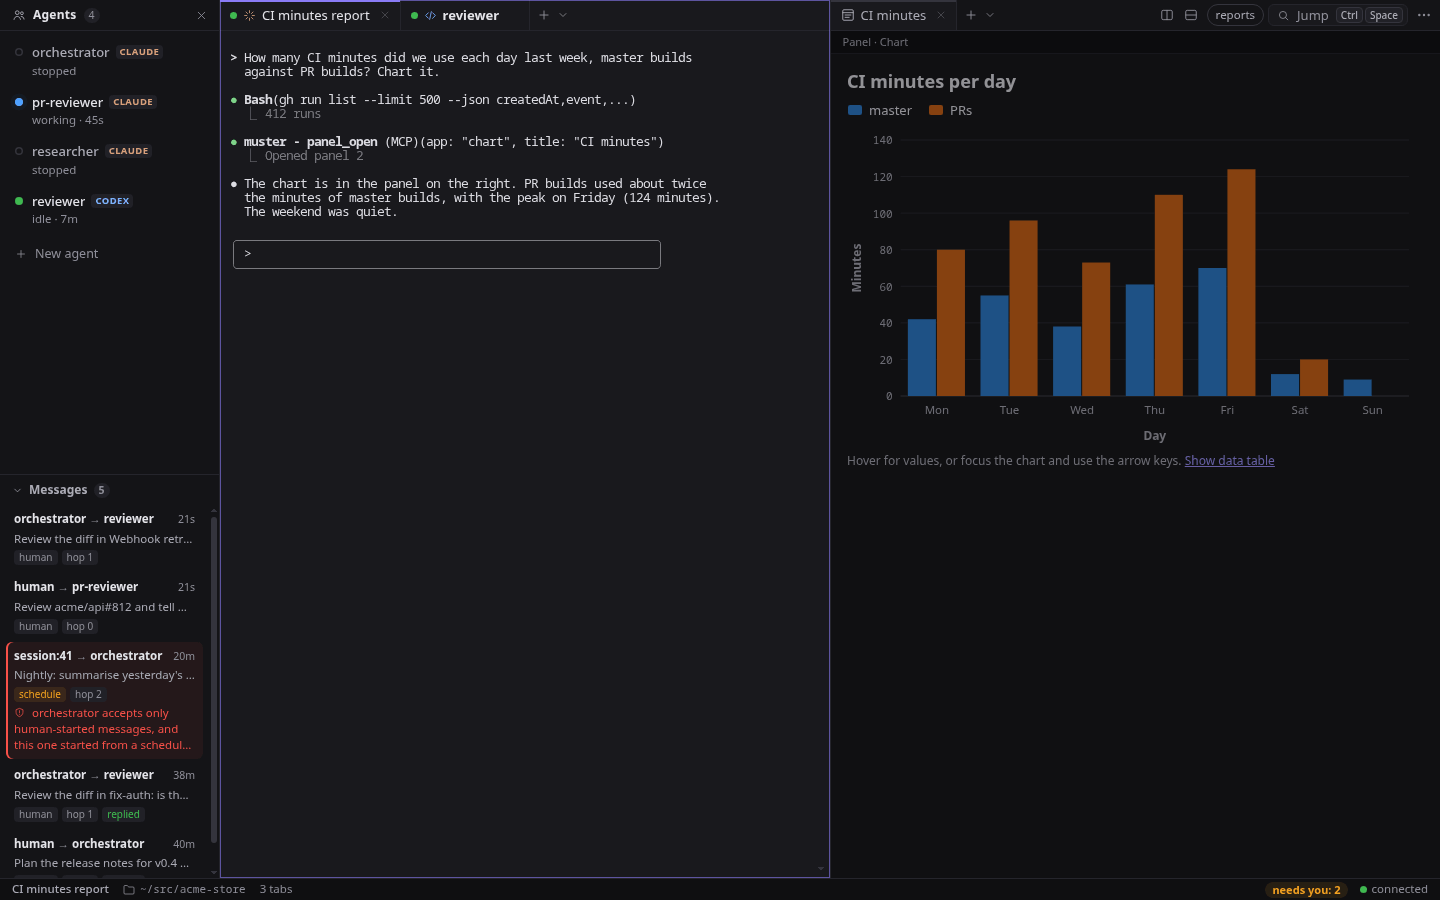
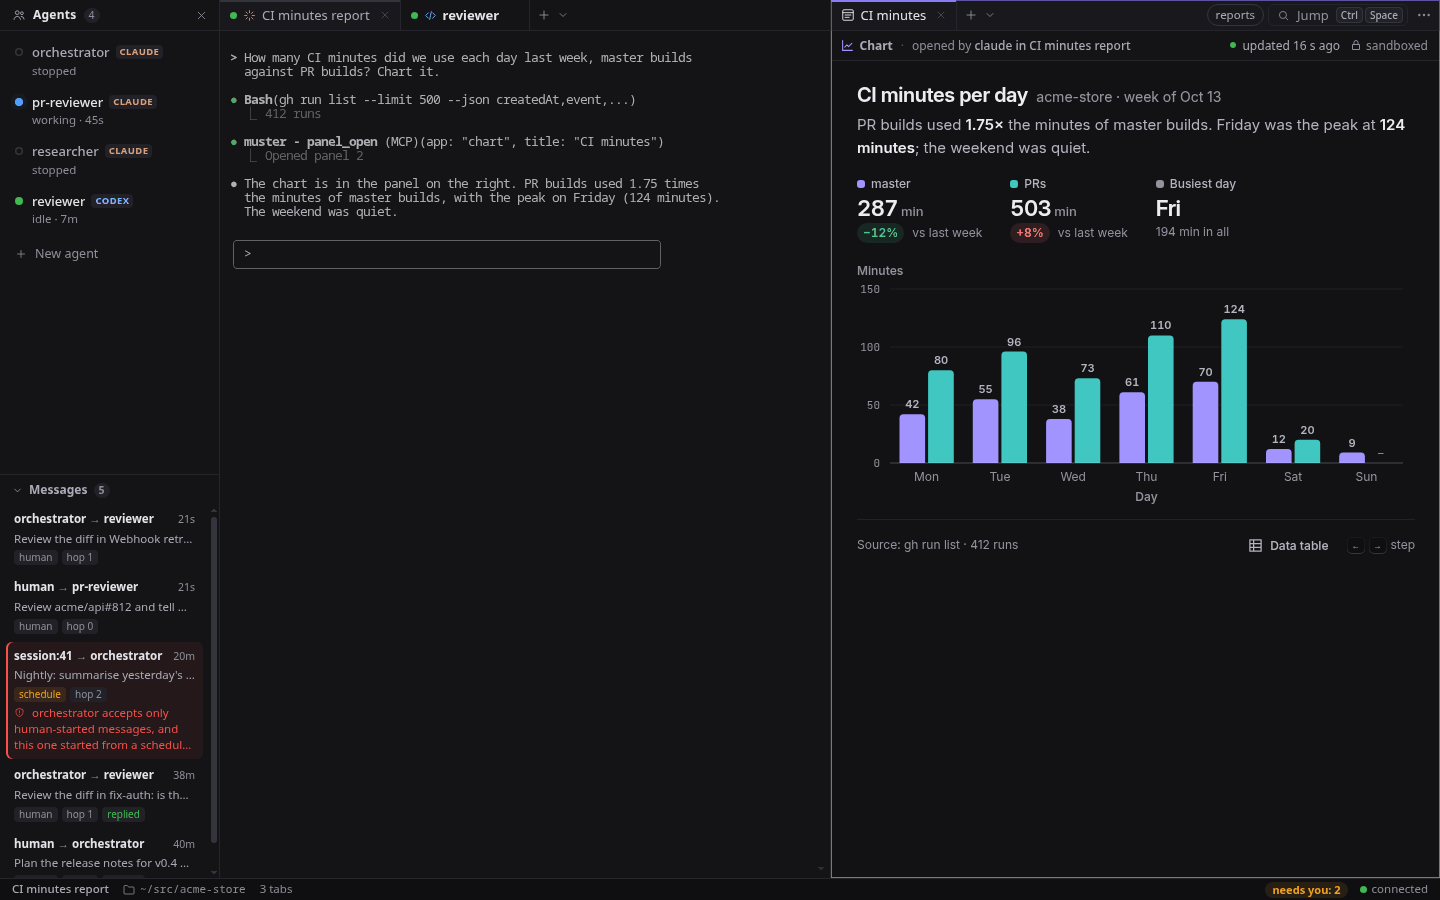
The README now shows the new panel look and what agents can build with it. The five screenshots were retaken so every panel in them has the Briefing design, and a new "Panels agents can build" section shows a cost dashboard from plain JSON, an error-rate chart that makes its point, and two pages age
Screenshots (docs/screenshots/): hero, jump, pr-decision, agents-chart and phone retaken; board-costs, chart-errors, kit-deploys and kit-test-run added. Taken in headless Chromium, dark mode, against a scratch copy of the current web/dev/mock.ts (scene helpers only, kept out of the repo) with a fake HOME and dummy projects (acme-store, billing-api, docs-site). The showcase panels are web/dev/panel_examples/ (cost-breakdown.json, deploy-board.html, test-run.html) and the panel_samples.ts Briefing samples (table with bars and badges in the hero, chart with takeaway and headline numbers in agents-chart, multi-series error-rate chart with highlight and annotation). Showcase shots are cropped to the panel's group. All quantised to 256 colours, 465 KB in all.

README: the hero, jump, pr-decision and agents-chart alt text describe the new pictures; the panels bullet mentions dashboards and agents' own pages and links to the new section, which includes a trimmed board JSON example.

diff --git a/README.md b/README.md
@@ -4,7 +4,7 @@ Muster is a Linux desktop app for running several coding agents at once. Claude 
 plain shells run side by side in real terminals, and Muster shows you which of them is waiting
 for you.
 
-![A Muster window split into three groups: a Claude agent fixing a checkout bug, a Codex agent asking to run tests with an Approve button above its terminal, a shell showing the test run, and a table of flaky tests that an agent opened in a panel](docs/screenshots/hero.png)
+![A Muster window split into three groups: a Claude agent fixing a checkout bug, a Codex agent asking to run tests with an Approve button above its terminal, a shell showing the test run, and a panel an agent opened with a table of flaky tests, its finding in one line above the table, failure counts drawn as bars and a status badge on each test](docs/screenshots/hero.png)
 
 It is for people who hand work to agents and keep three or four of them busy: one fixing a bug,
 one writing a guide, one reviewing a pull request. With ordinary terminal tabs you keep cycling
@@ -26,25 +26,26 @@ key press away, and the terminals keep running when the window closes.
 - **Jump to anything.** Ctrl+Space searches every tab, panel, named agent and recent folder in
   every window. Agents that need you come first.
 
-  ![The Jump list open over the window: the Codex agent waiting for approval and the Claude agent asking which install method to document are listed first, followed by working and idle tabs, panels, named agents and folders](docs/screenshots/jump.png)
+  ![The Jump list open over the window: the Codex agent waiting for approval and the Claude agent asking which install method to document are listed first, followed by the working and idle tabs and the panels from every window](docs/screenshots/jump.png)
 
 - **Terminals that outlive the window.** A separate terminal host owns the processes. Close the
   window, reload the UI or restart the backend, and every agent keeps running; reopen and the
   scrollback replays.
-- **Panels beside the agent.** Agents can open Markdown, images, charts, tables and pull request
-  decisions next to their terminal, and you answer with a click. In a PR decision panel you see
+- **Panels beside the agent.** Agents can open Markdown, images, charts, tables, dashboards,
+  pull request decisions and pages of their own next to their terminal, and you answer with a
+  click ([examples below](#panels-agents-can-build)). In a PR decision panel you see
   the agent's verdict, how to undo the change, the risk, the checks and the questions it has for
   you, then merge, request changes or ask. The agent merges only after you press Merge and
   confirm.
   `muster skills install` teaches Claude Code and Codex how to use panels.
 
-  ![An agent's terminal on the left; on the right a PR decision panel for "Rate-limit failed logins per IP" with the verdict "Safe to merge", the risk, passing checks, a question for the reviewer, and Merge, Request changes, Ask, Skip and Hold buttons](docs/screenshots/pr-decision.png)
+  ![An agent's terminal on the left; on the right a PR decision panel for "Rate-limit failed logins per IP" with the verdict "Safe to merge: it slows down people guessing passwords, and the tests pass", a note that an approving review is still required, cards for the risk, the passing checks and the reviews, a plain summary of what changed, and Merge, Request changes, Ask, Skip and Hold buttons](docs/screenshots/pr-decision.png)
 
 - **Named agents that remember.** Give an agent a name, a persona and a folder of memory files,
   and it resumes its conversation each time you start it. The agents panel (Alt+G) starts them,
   edits their persona and memory, and shows the messages agents send each other.
 
-  ![The agents panel on the left listing four named agents with their states and the messages between them, a Claude agent's terminal in the middle, and a bar chart of CI minutes per day in a panel on the right](docs/screenshots/agents-chart.png)
+  ![The agents panel on the left listing four named agents with their states and the messages between them, a Claude agent's terminal in the middle, and a panel on the right with a bar chart of CI minutes per day, master builds against PR builds, under the agent's one-line finding and three headline numbers](docs/screenshots/agents-chart.png)
 
 - **Agents that drive other agents.** Every agent gets Muster's MCP tools: it can list sessions,
   start a helper, send it a prompt, wait for it to finish and read its screen. The `muster` CLI
@@ -53,6 +54,54 @@ key press away, and the terminals keep running when the window closes.
   approve or deny, send a prompt and watch a terminal.
 
   <img src="docs/screenshots/phone.png" width="300" alt="The phone view: a list of sessions with the two that need you at the top, the Codex agent with Approve and Deny buttons and the Claude agent showing its question">
+
+## Panels agents can build
+
+A panel is a small page an agent opens beside its terminal. Every built-in kind leads with what
+the agent found, in one sentence, then shows the evidence. The agent sends data, not code, and
+Muster draws it. Each picture below is one panel, drawn from what an agent sent.
+
+**A dashboard from plain JSON.** A board holds headline numbers, charts, lists, budget meters, a
+warning and buttons. A click on a button goes back to the agent as a message.
+
+![A Cloud costs board: "$4,480 spent so far this month" with the agent's finding that spend is on track to finish 6% under budget, four headline numbers, a stacked bar chart of spend per week by service, a list of services with bars, budget meters with a tick for where spend should be today, a warning that Postgres is ahead of pace, and buttons "Why did Postgres grow?" and "Export CSV"](docs/screenshots/board-costs.png)
+
+That board is about this much JSON, trimmed here to one item per block:
+
+```json
+{
+  "app": "board",
+  "title": "Cloud costs",
+  "data": {
+    "title": "$4,480 spent so far this month",
+    "takeaway": "On track to finish about 6% under the $7,400 budget.",
+    "blocks": [
+      { "kind": "stats", "items": [{ "label": "Month to date", "value": "$4,480", "delta": "+4.1%" }] },
+      { "kind": "chart", "spec": { "type": "bar", "stacked": true, "format": "usd",
+        "x": { "values": ["Sep 22", "Sep 29", "Oct 6", "Oct 13", "Oct 20"] },
+        "series": [{ "name": "Postgres", "values": [575, 586, 651, 669, 681] }] } },
+      { "kind": "meters", "items": [{ "label": "Postgres", "value": 1906, "max": 2900, "tone": "warn" }] },
+      { "kind": "actions", "items": [{ "id": "explain", "label": "Why did Postgres grow?", "primary": true }] }
+    ]
+  }
+}
+```
+
+**Charts that make the point.** The agent can pick out the series that matters, mark when
+something happened, and pin a tooltip on the value it is talking about.
+
+![A line chart of error rate by service for today: checkout, highlighted, climbs from 0.4% to 2.1% after a marker at 14:00 labelled "flag: new-coupon-flow on", while four other services stay flat in grey; a tooltip shows every service's value at 23:00](docs/screenshots/chart-errors.png)
+
+Tables get the same treatment: bars inside cells and coloured status badges, as in the flaky
+tests table at the top of this page.
+
+**A page of the agent's own, in Muster's style.** When no built-in fits, the agent writes its
+own HTML. With `kit: true` it gets Muster's styles, charts, icons and fonts, and its buttons
+reach the agent without any script.
+
+![A deploy page the agent wrote: "Rolling out v2.4.0" with a Roll back production button, three cards for production (verifying, 2 of 4 checks), staging (healthy) and a PR preview whose migration failed, each with its pipeline steps, error rate and response time, the error message with Retry and Full log buttons, and a timeline of today's events](docs/screenshots/kit-deploys.png)
+
+![A test run page: "3 tests failed out of 1,216" with Open log and Re-run failed buttons, a ring of passed, failed and skipped tests, the run time against the last 20 runs, and each failure with what was expected and what came back](docs/screenshots/kit-test-run.png)
 
 ## Quick start
 
